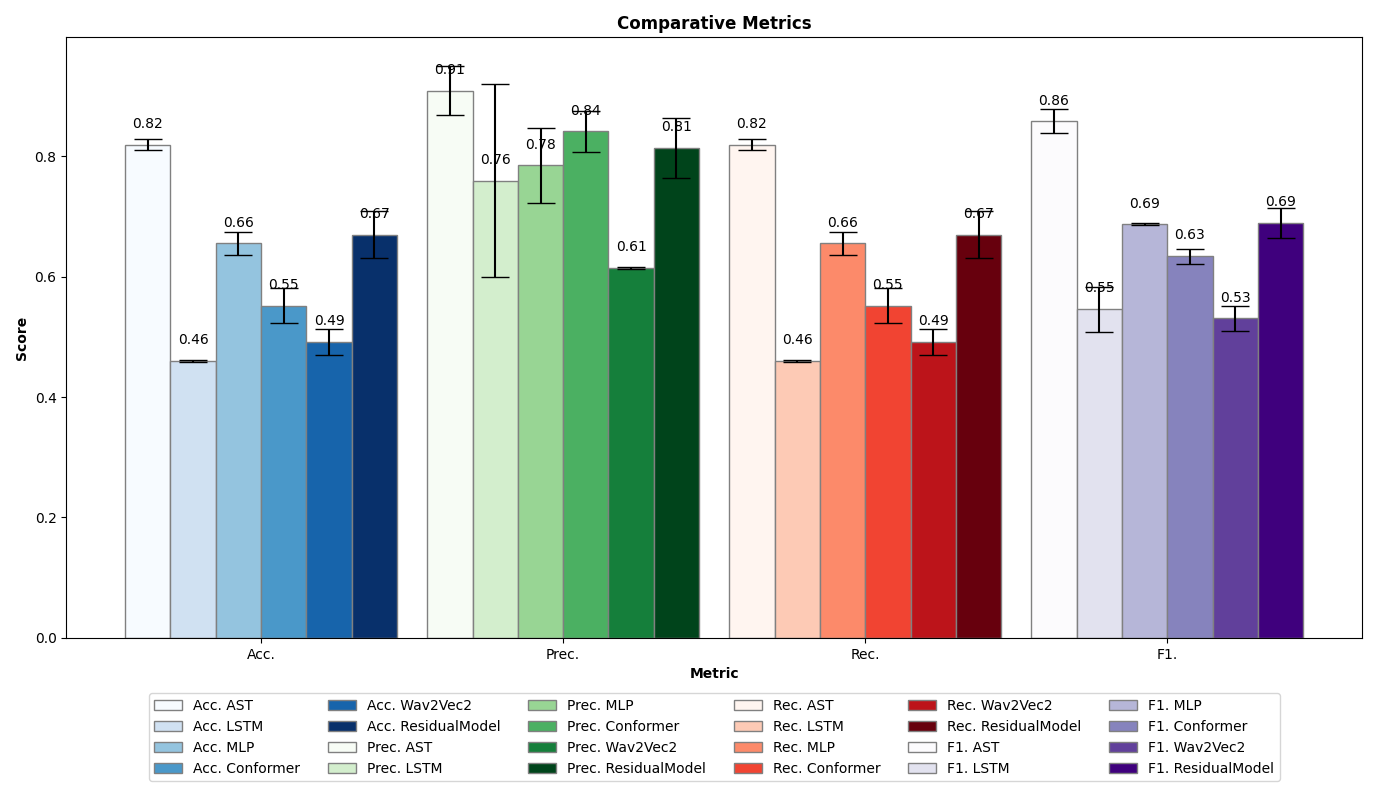
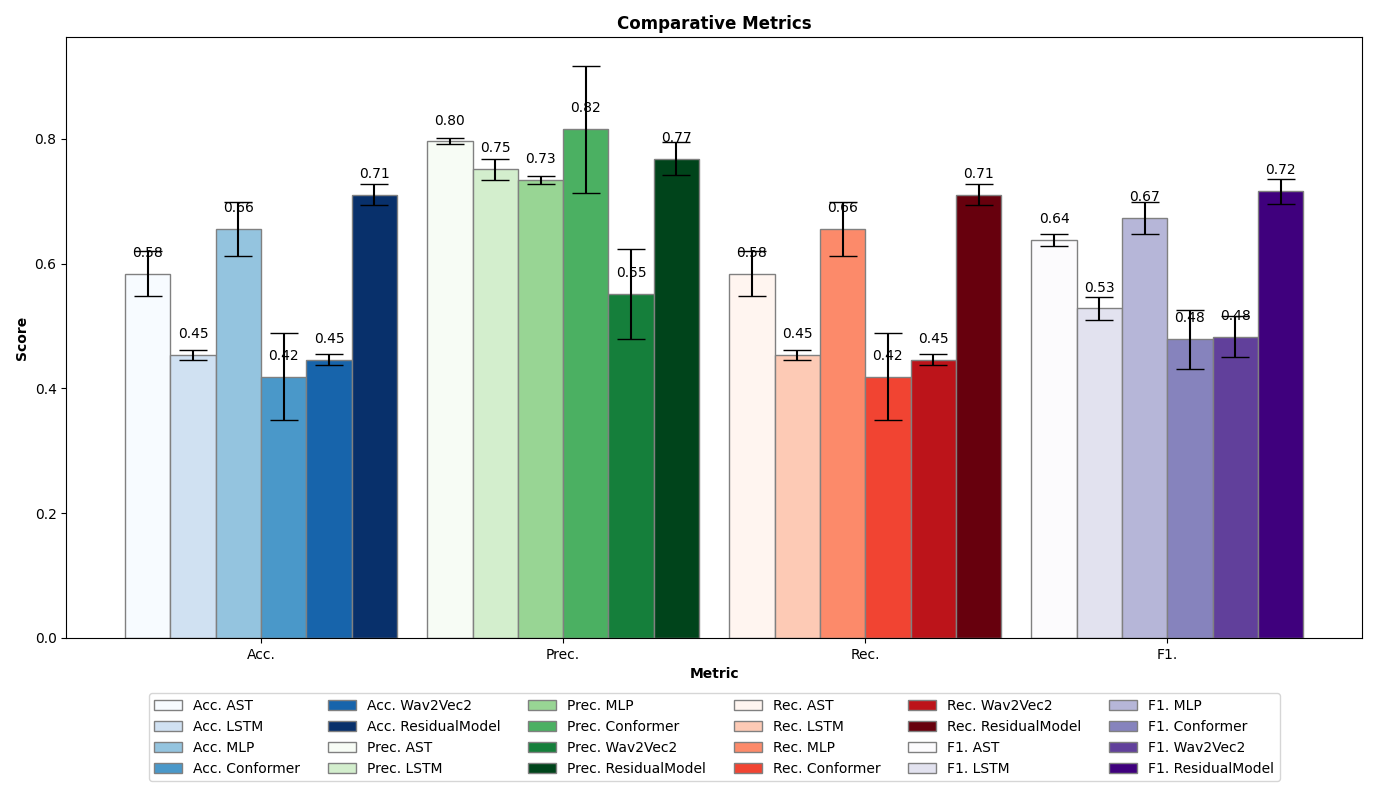
Create

diff --git a/Models/AST.py b/Models/AST.py
@@ -8,6 +8,8 @@ __initial_data__ = '2024/07/17'
 __last_update__ = '2024/07/17'
 __credits__ = ['unknown']
 
+import pandas as pd
+
 try:
     import sys
     import os
@@ -16,15 +18,17 @@ try:
     import librosa
     import numpy
     import tensorflow
-
+    from sklearn.utils import resample
     from tensorflow.keras import models
     from tensorflow.keras.layers import Dropout
-    from tensorflow.keras.layers import Add, Flatten
+    from tensorflow.keras.layers import Add
+    from tensorflow.keras.layers import Flatten
     from tensorflow.keras.layers import Layer
     from tensorflow.keras.layers import Conv1D
     from tensorflow.keras.layers import Dense
     from tensorflow.keras.layers import Input
     from tensorflow.keras.layers import Embedding
+    from sklearn.model_selection import train_test_split
     from tensorflow.keras.layers import Concatenate, TimeDistributed
     from tensorflow.keras.layers import LayerNormalization
     from tensorflow.keras.layers import MultiHeadAttention
@@ -502,7 +506,7 @@ class AudioAST(MetricsCalculator):
 
         Parameters
         ----------
-        train_data_directory
+        dataset_directory : str
             Directory containing the training data.
         number_epochs : int, optional
             Number of training epochs.
@@ -514,50 +518,87 @@ class AudioAST(MetricsCalculator):
         Returns
         -------
         tuple
-            A tuple containing the mean metrics and the training history.
+            A tuple containing the mean metrics, the training history, the mean confusion matrix,
+            and the predicted probabilities along with the ground truth labels.
         """
         # Use default values if not provided
-        number_epochs = number_epochs or self.number_epochs
-        number_splits = number_splits or self.number_splits
-        batch_size = batch_size or self.size_batch
+        self.number_epochs = number_epochs or self.number_epochs
+        self.number_splits = number_splits or self.number_splits
+        self.size_batch = batch_size or self.size_batch
         self.loss_function = loss or self.loss_function
         self.sample_rate = sample_rate or self.sample_rate
-        self.overlap = overlap or overlap
+        self.overlap = overlap or self.overlap
         self.number_classes = number_classes or self.number_classes
-
-        # Load the training file paths and labels
+        history_model = None
         features, labels = self.load_dataset(dataset_directory)
-
         number_patches = features.shape[1]
         metrics_list, confusion_matriz_list = [], []
         labels = numpy.array(labels).astype(float)
 
-        instance_k_fold = StratifiedKFold(n_splits=number_splits, shuffle=True)
-        list_history_model = None
-        probabilities = None
-        real_labels = None
+        # Split data into train/val and test sets
+        features_train_val, features_test, labels_train_val, labels_test = train_test_split(
+            features, labels, test_size=0.2, stratify=labels, random_state=42
+        )
+
+        # Function to balance the classes by resampling
+        def balance_classes(features, labels):
+            unique_classes = numpy.unique(labels)
+            max_samples = max([sum(labels == c) for c in unique_classes])
+
+            balanced_features = []
+            balanced_labels = []
+
+            for c in unique_classes:
+                features_class = features[labels == c]
+                labels_class = labels[labels == c]
+
+                features_class_resampled, labels_class_resampled = resample(
+                    features_class, labels_class,
+                    replace=True,
+                    n_samples=max_samples,
+                    random_state=0
+                )
+
+                balanced_features.append(features_class_resampled)
+                balanced_labels.append(labels_class_resampled)
+
+            balanced_features = numpy.vstack(balanced_features)
+            balanced_labels = numpy.hstack(balanced_labels)
+
+            return balanced_features, balanced_labels
+
+        # Balance training/validation set
+        features_train_val, labels_train_val = balance_classes(features_train_val, labels_train_val)
+
+        # Stratified k-fold cross-validation on the training/validation set
+        instance_k_fold = StratifiedKFold(n_splits=self.number_splits, shuffle=True, random_state=42)
+        list_history_model = []
+        probabilities_list = []
+        real_labels_list = []
+
         print("STARTING TRAINING MODEL: {}".format(self.model_name))
-        for train_indexes, test_indexes in instance_k_fold.split(features, labels):
-            features_train, features_test = features[train_indexes], features[test_indexes]
-            labels_train, labels_test = labels[train_indexes], labels[test_indexes]
+        for train_indexes, val_indexes in instance_k_fold.split(features_train_val, labels_train_val):
+            features_train, features_val = features_train_val[train_indexes], features_train_val[val_indexes]
+            labels_train, labels_val = labels_train_val[train_indexes], labels_train_val[val_indexes]
+
+            # Balance the training set for this fold
+            features_train, labels_train = balance_classes(features_train, labels_train)
 
             self.build_model(number_patches)
             self.neural_network_model.summary()
-            history_model = self.compile_and_train(features_train, labels_train, epochs=number_epochs,
-                                                   batch_size=batch_size,
-                                                   validation_data=(features_test, labels_test))
 
-            model_predictions = self.neural_network_model.predict(features_test, batch_size=batch_size)
+            history_model = self.compile_and_train(features_train, labels_train, epochs=self.number_epochs,
+                                                   batch_size=self.size_batch,
+                                                   validation_data=(features_val, labels_val))
+
+            model_predictions = self.neural_network_model.predict(features_val)
             predicted_labels = numpy.argmax(model_predictions, axis=1)
-            probabilities = model_predictions
-            real_labels = labels[test_indexes]
-            y_validation_predicted_probability = numpy.array([numpy.argmax(model_predictions[i], axis=-1)
-                                                              for i in range(len(model_predictions))])
+
+            probabilities_list.append(model_predictions)
+            real_labels_list.append(labels_val)
 
             # Calculate and store the metrics for this fold
-            metrics, confusion_matrix = self.calculate_metrics(predicted_labels, labels_test,
-                                                               y_validation_predicted_probability)
-            list_history_model = history_model.history
+            metrics, confusion_matrix = self.calculate_metrics(predicted_labels, labels_val, predicted_labels)
             metrics_list.append(metrics)
             confusion_matriz_list.append(confusion_matrix)
 
@@ -573,24 +614,21 @@ class AudioAST(MetricsCalculator):
             'F1.': {'value': numpy.mean([metric['F1-Score'] for metric in metrics_list]),
                     'std': numpy.std([metric['F1-Score'] for metric in metrics_list])},
         }
+
         probabilities_predicted = {
             'model_name': self.model_name,
-            'predicted': probabilities,
-            'ground_truth': real_labels
+            'predicted': numpy.concatenate(probabilities_list),
+            'ground_truth': numpy.concatenate(real_labels_list)
         }
 
         confusion_matrix_array = numpy.array(confusion_matriz_list)
-        confusion_matrix_array = numpy.mean(confusion_matrix_array, axis=0)
-        mean_confusion_matrix = numpy.round(confusion_matrix_array).astype(numpy.int32)
-
-        # Calculate the average across the first dimension (number of matrices)
-        mean_confusion_matrix = mean_confusion_matrix.tolist()
+        mean_confusion_matrix = numpy.mean(confusion_matrix_array, axis=0)
+        mean_confusion_matrix = numpy.round(mean_confusion_matrix).astype(numpy.int32).tolist()
 
         mean_confusion_matrices = {
             "confusion_matrix": mean_confusion_matrix,
             "class_names": ['Class {}'.format(i) for i in range(self.number_classes)],
             "title": self.model_name
         }
-
-        return (mean_metrics, {"Name": self.model_name, "History": list_history_model}, mean_confusion_matrices,
+        return (mean_metrics, {"Name": self.model_name, "History": history_model.history}, mean_confusion_matrices,
                 probabilities_predicted)

diff --git a/Models/Wav2Vec2.py b/Models/Wav2Vec2.py
@@ -383,5 +383,5 @@ class AudioWav2Vec2(MetricsCalculator):
             "title": self.model_name
         }
 
-        return (mean_metrics, {"Name": self.model_name, "History": history_model}, mean_confusion_matrices,
+        return (mean_metrics, {"Name": self.model_name, "History": history_model.history}, mean_confusion_matrices,
                 probabilities_predicted)

diff --git a/Models/LSTM.py b/Models/LSTM.py
@@ -393,7 +393,3 @@ class AudioLSTM(MetricsCalculator):
         return (mean_metrics, {"Name": self.model_name, "History": history_model.history}, mean_confusion_matrices,
                 probabilities_predicted)
 
-
-if __name__ == "__main__":
-    lstm_model = AudioLSTM()
-    lstm_model.train('Dataset')
